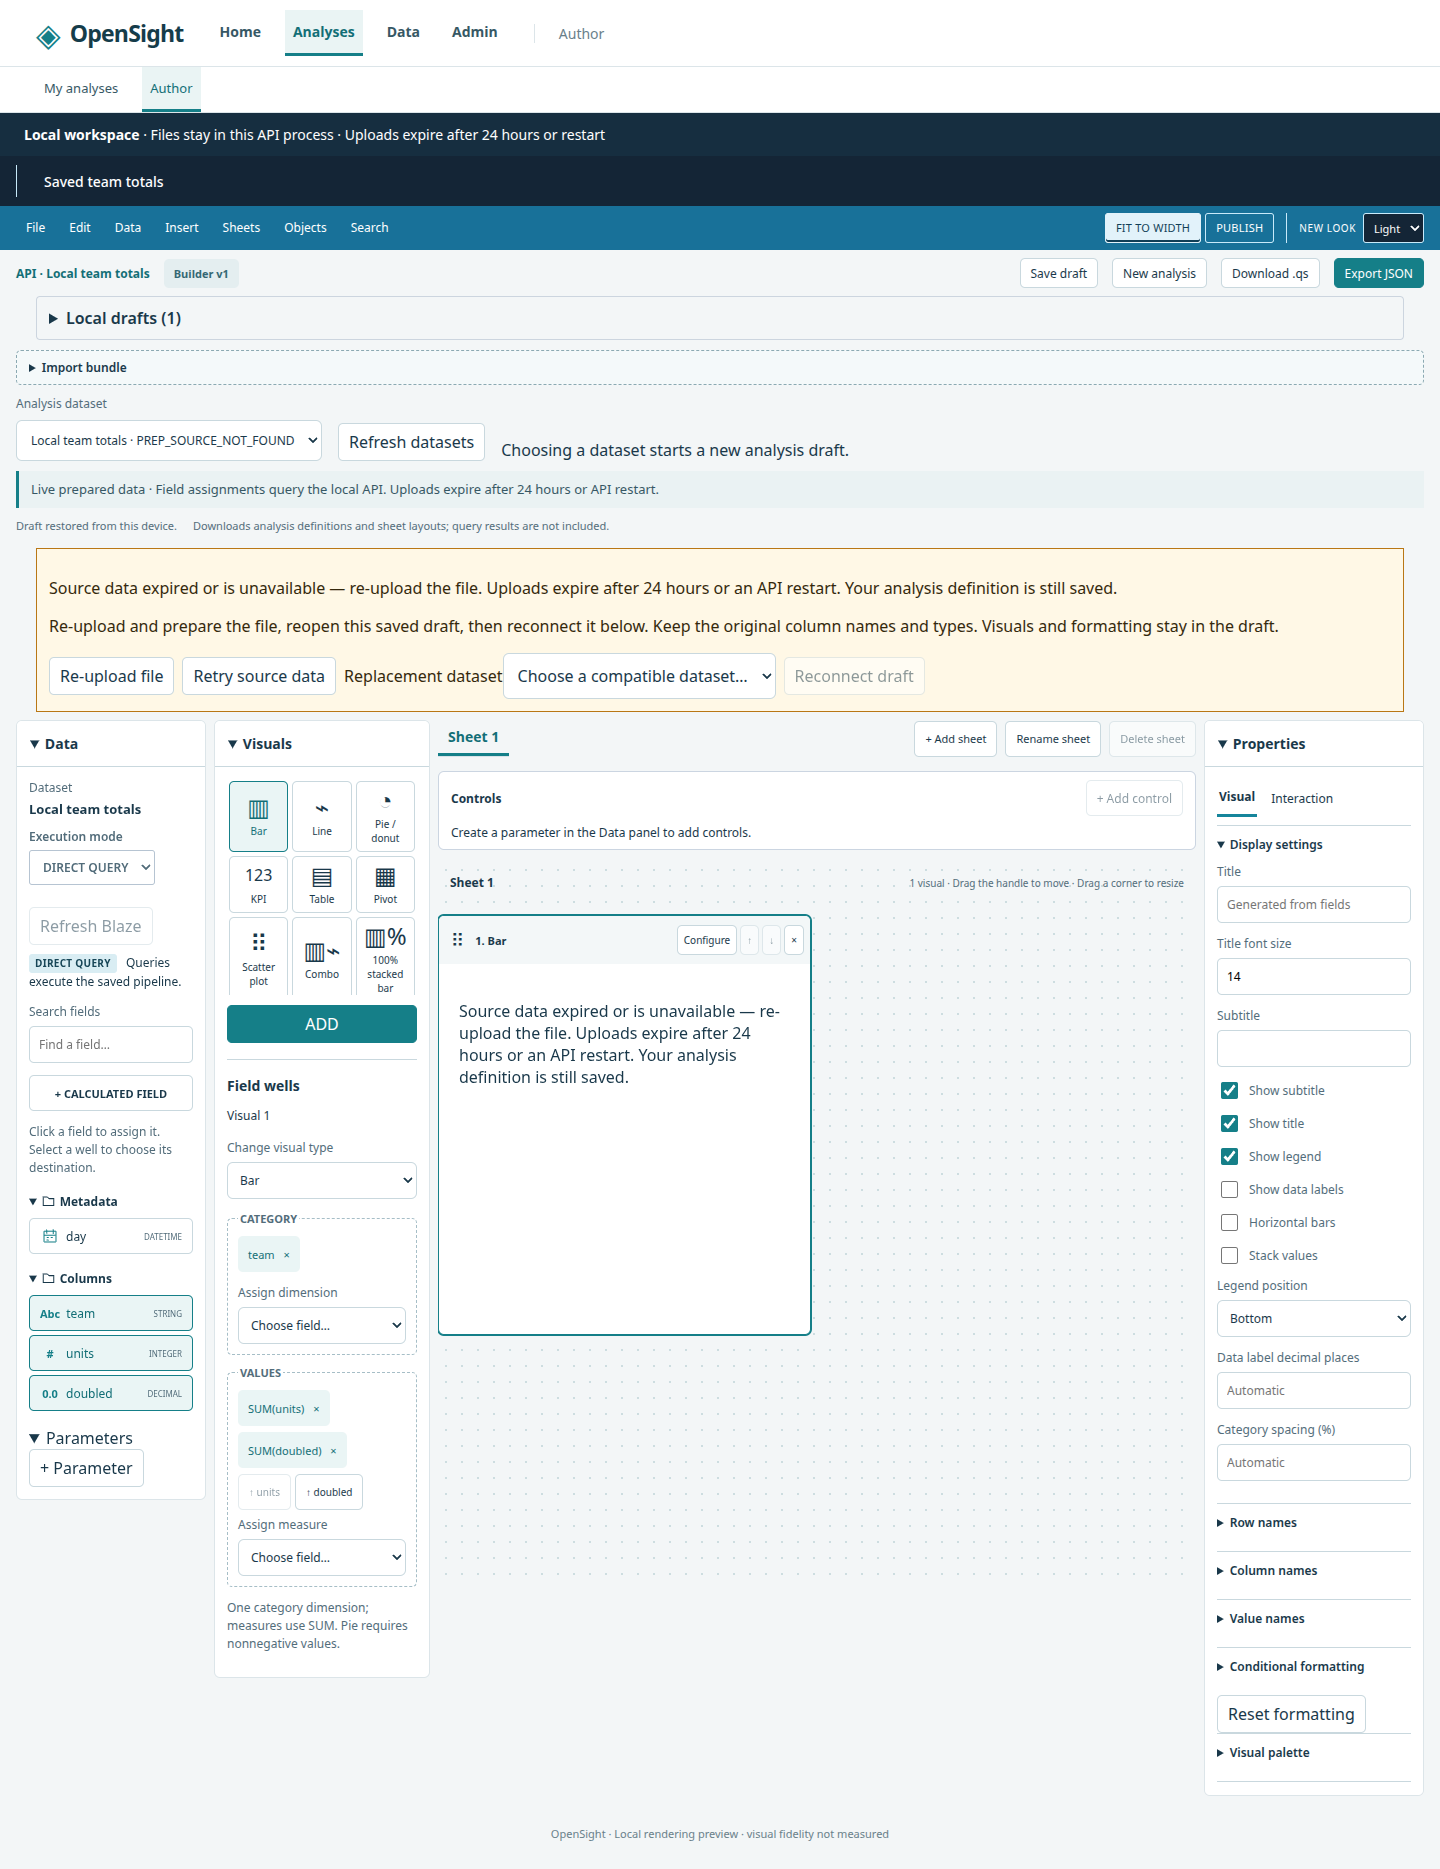
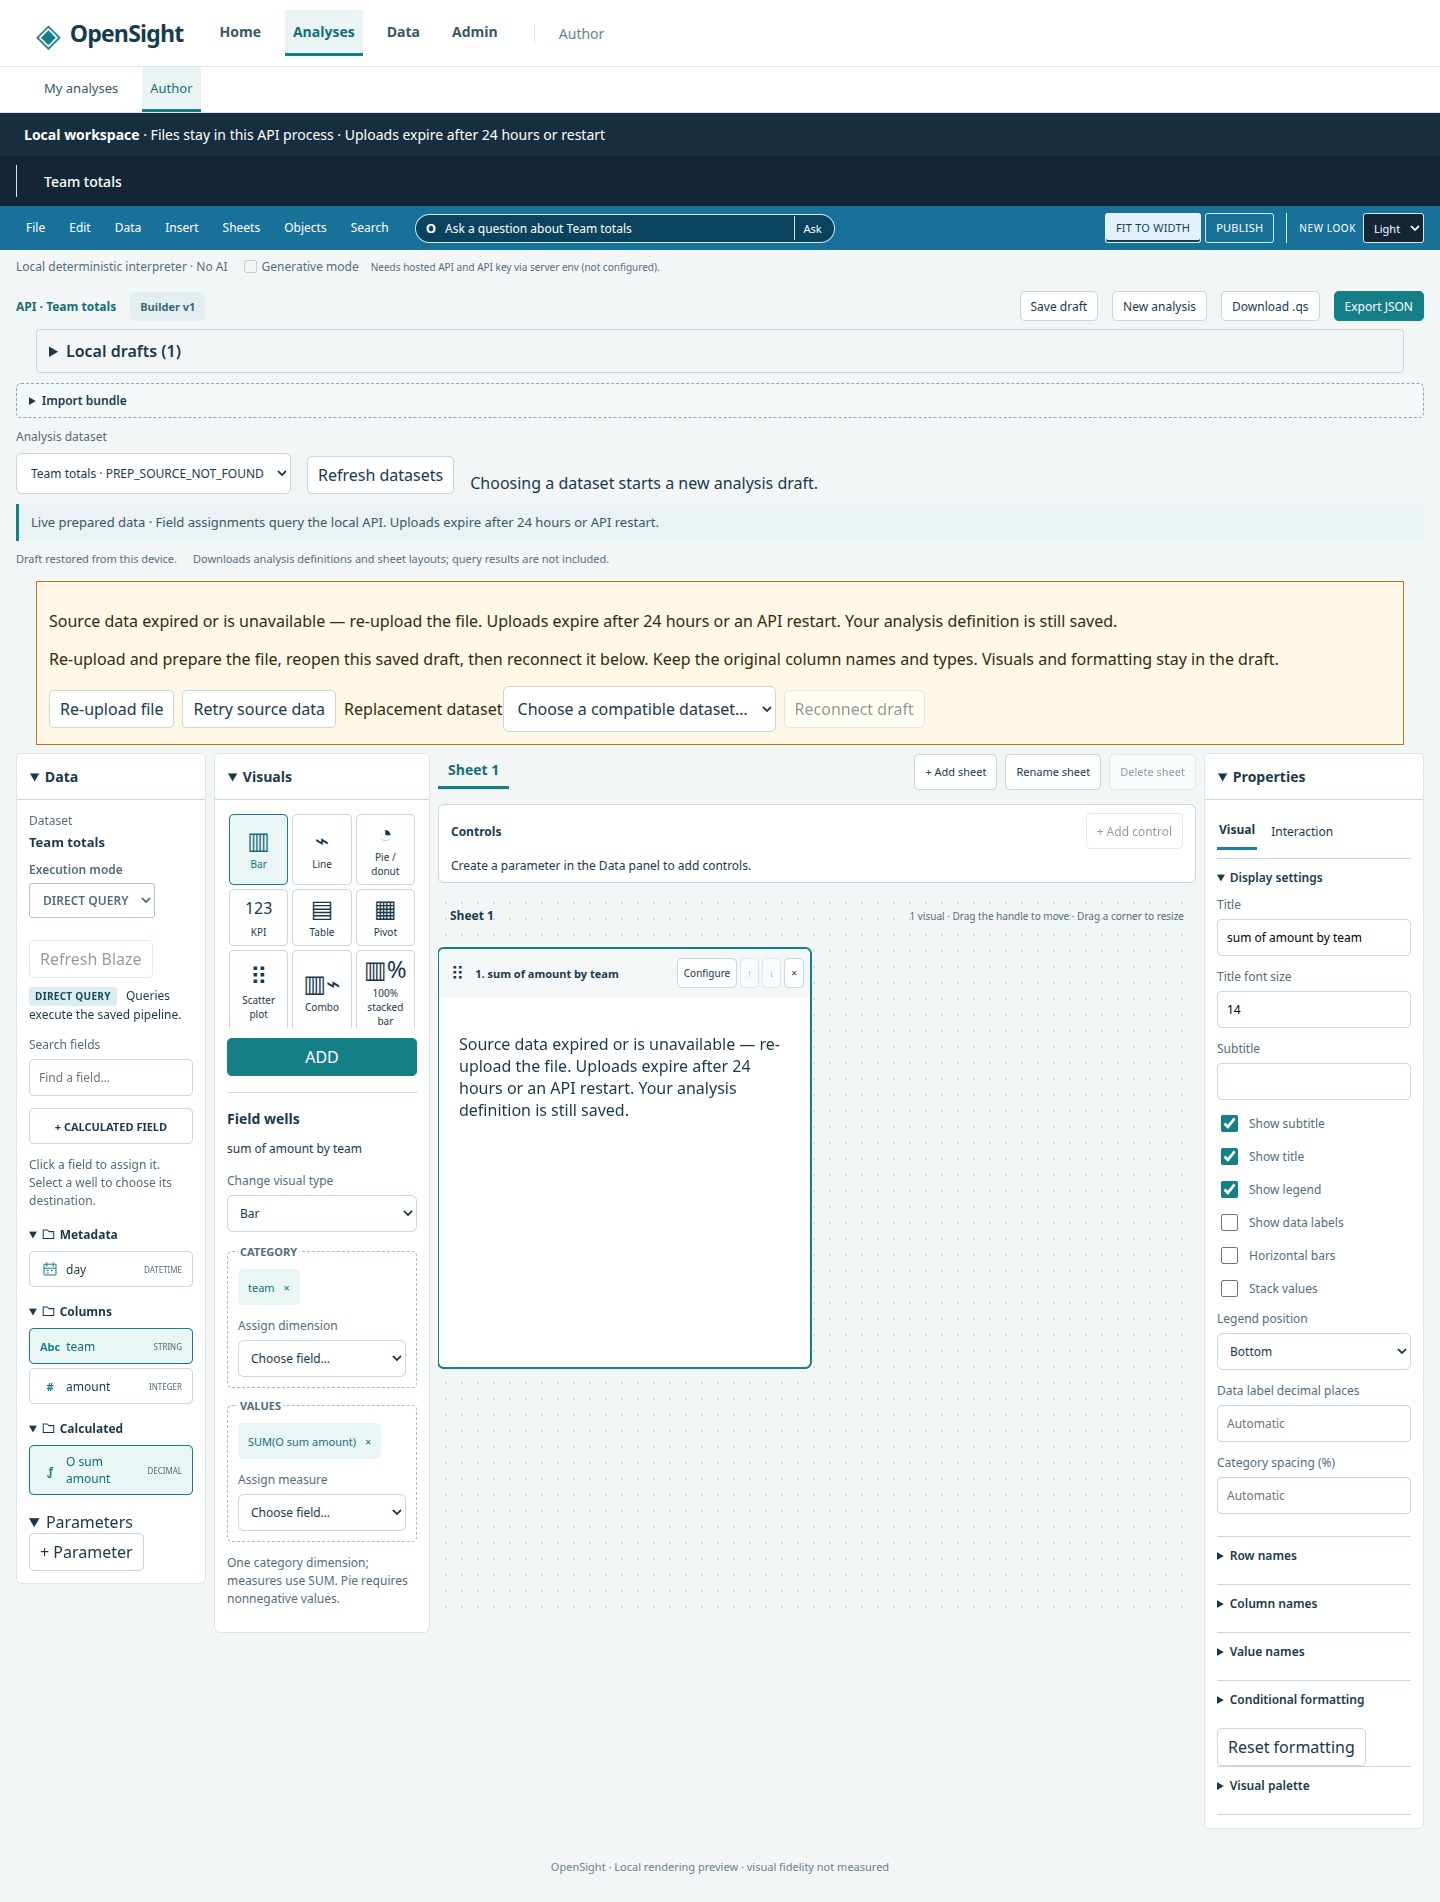
Issue #33: verify real O charts and refresh docs and demo captures

diff --git a/docs/issue-33-gap-notes.md b/docs/issue-33-gap-notes.md
@@ -1,0 +1,82 @@
+# Issue #33: local O answers
+
+Implemented on `work/issue-33-nlq-answer` from `de86005`, following the run brief.
+`SOLUTION_DESIGN.md`, server O routes, dependencies and hosted authorization are
+unchanged. Publication remains with the runner.
+
+## Behavior
+
+Local O previews now delegate to the same `queryDataset(id, query, signal)` path
+as field assignments. The preview client retains the active dataset, so query
+construction, rendering and expired-source recovery have its ID and column types.
+Hosted previews still require `queryO(query, dashboardId, signal)` and fail closed
+if it is absent. No-client demos still compute synthetic fixture rows and show
+the Offline demo label.
+
+Two prerequisites were visible in the current branch beyond the diagnosed
+preview wrapper. `OEntry` hid the whole bar in local mode because local users do
+not have hosted AI capability; it now exposes deterministic questions there
+without granting that capability or enabling generative mode. `prepareOVisual`
+validated against sales fields only; it now receives the draft dataset, including
+for calculated-field type checks. Questions against an uploaded `team,amount,day`
+schema therefore reach the actual prepared dataset query. Switching datasets
+clears stale interpretations. Source labels and the toolbar placeholder name the
+active dataset; the sales source remains “Local sales API query.”
+
+Unknown fields and unsupported calculations retain their named preparation
+errors. Query failures never substitute fixture rows. Expired prepared sources
+show the existing re-upload, prepare, reopen and reconnect guidance. ADD TO
+ANALYSIS retains the selected visual, helper calculations and dataset binding.
+
+## Regression coverage
+
+`packages/web/test/o-entry-routing.test.mjs` adds eleven cases covering local
+routing with and without `queryO`, dataset forwarding, hosted dashboard scope and
+mode changes, hosted fail-closed behavior, offline rows and labels, uploaded
+columns and ADD TO ANALYSIS, dates and calculated dates, both expired-source error
+codes, preparation errors, and dataset-change invalidation. The existing API
+failure test now mocks the local dataset endpoint. Hosted role regressions remain
+unchanged. Focused checks passed before each runtime checkpoint.
+
+## Browser and visual review
+
+`packages/web/scripts/verify-o-answer.mjs` starts an isolated real local API and
+Vite, uploads a synthetic CSV through the UI, and inspects both HTTP responses
+and rendered SVG charts/data tables. Installed Chromium blocks loopback, so Node
+forwards unchanged requests and responses at the actual browser origin; no API
+responses or chart rows are mocked. The Vite transport adds `/api` before the API
+route; the script records both paths and asserts the route after Vite's rewrite.
+
+Acceptance checks include sales revenue by region (East 500, West 400), uploaded
+amount by team (North 6, South 3), monthly uploaded dates (January 9), and adding
+both answers to an analysis. Restarting that API retains prepared metadata but
+loses uploaded rows, exercising the real `PREP_SOURCE_NOT_FOUND` recovery path.
+An independent rebuilt `file://` demo is checked with HTTP(S) blocked.
+The final browser run exited 0 with 17 actual API query requests, zero page
+errors, zero external requests and zero hosted O requests. Early script-only
+assertions were corrected for Vite's transport prefix and for the two expected
+recovery notices; no product checks were removed.
+
+The captures are compared visually against the private
+`qs-author-light-flow.jpg` and `dyn-05-author-o-bar.png` references. The existing
+Data → Visuals → sheet order and toolbar are retained. O keeps its existing
+document-flow answer, with readable axes, real values, source labels and add
+action; the denser QuickSight layout remains a known difference. No new layout
+regression was found in the checked 1440-pixel desktop viewport. Visual fidelity
+is not measured; connector and broader polish work remain outside this issue.
+
+The README tour uses `capture-readme-tour.mjs`, adapted from the required external
+`readme-gif.mjs`, against the freshly rebuilt static demo. It now waits for O's
+chart, checks its offline label and shows ADD TO ANALYSIS. FFmpeg produces 82
+frames at 960×600, 8.2 seconds. The README distinguishes that offline tour from
+the real local uploaded-data O screenshot. Affected Author, local data, draft
+history and expired-draft screenshots are refreshed from the same capture run.
+
+## Verification evidence
+
+Local logs and captures are retained under ignored `.opensight/issue-33/`:
+`api-build.log`, `demo-build.log`, `browser.log`, `browser/`, `gif-final.log`,
+`gif-final/`, `gif-assembly.log`, `full-tests.log`, and `full-tests-final.log`.
+The initial full-suite process received SIGTERM during query-engine tests after
+488 tests passed in the completed workspaces, with no reported failures. It is
+not counted as a completed run; the final run records its exit status separately.

diff --git a/docs/o-entry-point.md b/docs/o-entry-point.md
@@ -1,17 +1,23 @@
 # O entry point — Phase 4, issue #6
 
 The builder chrome contains **Ask a question**. This is a local deterministic
-interpreter, not an LLM. It interprets the local sales schema (including locally
-available calculated fields), renders the selected answer through the existing
-visual compiler, and shows its explanation and grammar-match confidence.
+interpreter, not an LLM. It interprets the active prepared dataset or the local
+sales schema (including locally available calculated fields), renders the
+selected answer through the existing visual compiler, and shows its explanation
+and grammar-match confidence.
 **Did you mean…?** cards select other interpretations. **ADD TO ANALYSIS** adds
 the selected visual and its helper calculations to the active sheet in one edit.
 The normal draft save and bundle/JSON export paths retain that definition.
 
-The input uses local sales even when other imported resources are present.
-Imported unresolved datasets are not queried. O previews use synthetic fixture
-rows offline, or the existing local sales query endpoint when API mode is selected.
-An API failure is displayed; it never falls back to fixtures. Sheet controls and
+In the local workspace, O uses the visual builder's `queryDataset` path and
+current dataset schema. Sales questions query `/api/datasets/sales/query`;
+uploaded CSVs query their prepared dataset ID, including their own field names,
+types and date grains. The source label names the queried dataset. Imported
+unresolved datasets are not queried. O previews use synthetic fixture rows
+offline; hosted O continues to use `/api/o/query` with its dashboard scope and
+existing authorization checks. An API failure is displayed; it never falls back
+to fixtures. Expired uploads retain the re-upload, prepare and reconnect guidance
+described in [local drafts](local-drafts.md). Sheet controls and
 inherited filters apply to added visuals through the existing authoring path.
 
 ## Supported question grammar
@@ -117,10 +123,12 @@ separate save action. Editing the request clears any stale suggestion.
 
 ## Hosted roles and generative mode (Issue #7)
 
-The entire ask-a-question bar is restricted to administrator, author_ai and
-reader_ai, including deterministic mode. Reader AI is available on accessible
-published dashboards and has no ADD TO ANALYSIS action. The offline public
+In hosted mode, the entire ask-a-question bar is restricted to administrator,
+author_ai and reader_ai, including deterministic mode. Reader AI is available on
+accessible published dashboards and has no ADD TO ANALYSIS action. The offline public
 sample preview uses a fixed author_ai persona and cannot access hosted features.
+The local workspace exposes deterministic questions without hosted AI access;
+generative mode stays disabled there.
 
 Hosted generative mode enables only when both AI capability and a configured
 non-Bedrock provider are present. The provider translates a question into O's

diff --git a/README.md b/README.md
@@ -8,10 +8,11 @@ bidirectional asset compatibility — connect data, prepare datasets, build
 analyses and dashboards, and ask questions in natural language. Self-hosted;
 no AWS required.
 
-![OpenSight tour: dashboard, ask a question, data preparation, data sources](docs/images/opensight-tour.gif)
+![OpenSight tour: dashboard, O answer, add to analysis, saved drafts, and data tools](docs/images/opensight-tour.gif)
 
-*Above: the offline demo — a dashboard, the O natural-language bar answering
-"revenue by region", the data preparation canvas, and the connector gallery.*
+*Above: the offline demo — a dashboard, O answering "revenue by region" and
+adding the chart to an analysis, saved drafts, data preparation, connectors,
+and administration.*
 
 ## Run it
 
@@ -120,9 +121,13 @@ prepare its columns, save the pipeline and select **Build a chart**. See
 ### 💬 Ask O
 
 A natural-language entry point over your data. A local deterministic
-interpreter answers offline; administrators can configure a real AI provider
+interpreter queries the active dataset in the local workspace, including prepared
+CSV uploads. The static demo answers using synthetic rows. Administrators can
+configure a real AI provider
 (OpenAI, Anthropic, Bedrock, or a custom endpoint) for generative answers,
 gated by role.
+
+![O answer querying a locally uploaded CSV: North 6 and South 3](docs/images/o-answer.png)
 
 ### 👥 Built for teams
 
